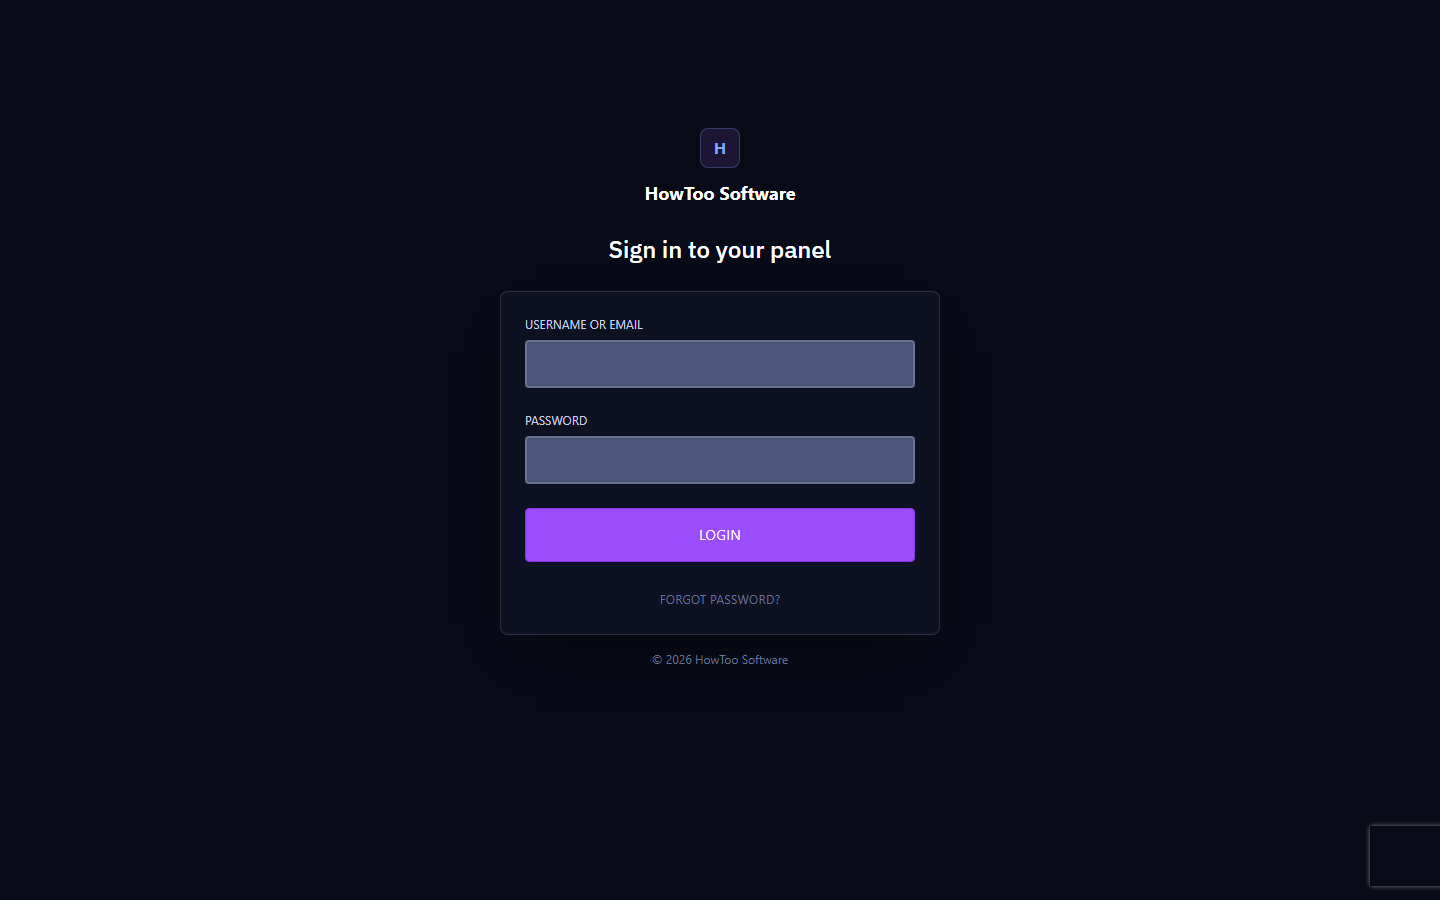
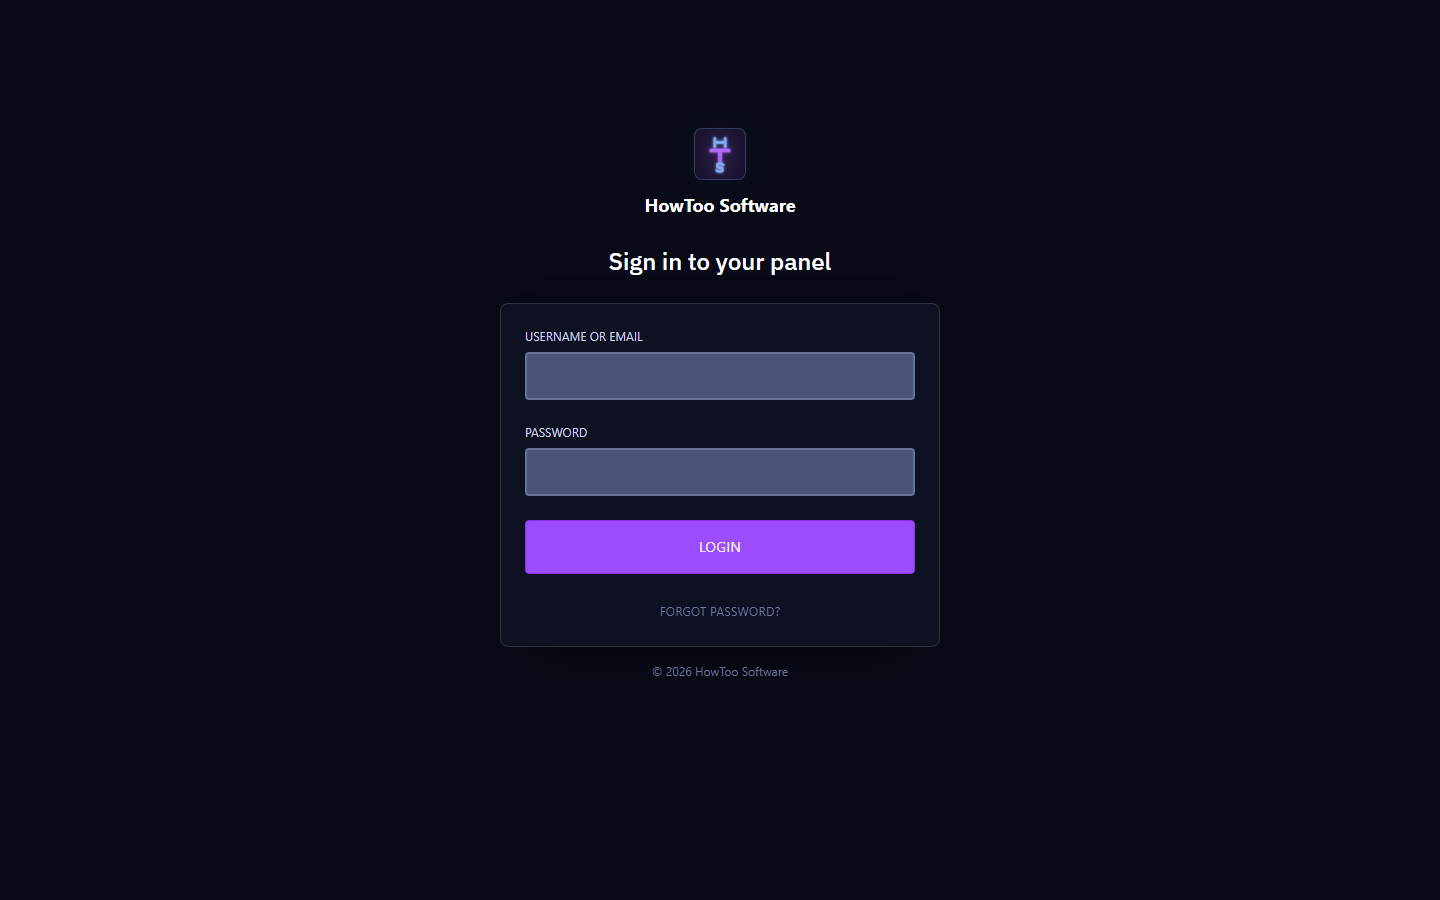
feat: add HTS branding and panel previews

diff --git a/resources/scripts/components/NavigationBar.tsx b/resources/scripts/components/NavigationBar.tsx
@@ -27,18 +27,15 @@ const Brand = styled.span`
     align-items: center;
     gap: 0.625rem;
 
-    &::before {
-        display: grid;
-        width: 1.75rem;
-        height: 1.75rem;
-        place-items: center;
+    img {
+        width: 2rem;
+        height: 2rem;
+        flex: none;
+        padding: 0.125rem;
         border: 1px solid var(--hts-border-blue);
         border-radius: 0.375rem;
-        background: rgba(176, 105, 255, 0.12);
-        color: var(--hts-secondary);
-        content: 'H';
-        font-size: 0.75rem;
-        font-weight: 700;
+        background: rgba(176, 105, 255, 0.08);
+        filter: drop-shadow(0 0 6px rgba(176, 105, 255, 0.32));
     }
 `;
 
@@ -86,7 +83,10 @@ export default () => {
                             'text-2xl font-header font-medium px-4 no-underline text-neutral-200 hover:text-neutral-100 transition-colors duration-150'
                         }
                     >
-                        <Brand>{name}</Brand>
+                        <Brand>
+                            <img src={'/themes/howtoo/images/hts-logo.svg'} alt={''} aria-hidden={'true'} />
+                            <span>{name}</span>
+                        </Brand>
                     </Link>
                 </div>
                 <RightNavigation className={'flex h-full items-center justify-center'}>

diff --git a/resources/scripts/components/auth/LoginFormContainer.tsx b/resources/scripts/components/auth/LoginFormContainer.tsx
@@ -24,16 +24,16 @@ const Brand = styled.div`
     margin-bottom: 1.5rem;
     text-align: center;
 
-    span {
-        display: inline-grid;
-        width: 2.5rem;
-        height: 2.5rem;
-        place-items: center;
+    img {
+        display: block;
+        width: 3.25rem;
+        height: 3.25rem;
+        margin: 0 auto;
+        padding: 0.25rem;
         border: 1px solid var(--hts-border-blue);
         border-radius: 0.5rem;
-        background: rgba(176, 105, 255, 0.12);
-        color: var(--hts-secondary);
-        font-weight: 700;
+        background: rgba(176, 105, 255, 0.08);
+        filter: drop-shadow(0 0 10px rgba(176, 105, 255, 0.4));
     }
 
     strong {
@@ -66,7 +66,7 @@ export default forwardRef<HTMLFormElement, Props>(({ title, ...props }, ref) => 
     return (
         <Container>
             <Brand>
-                <span aria-hidden={'true'}>H</span>
+                <img src={'/themes/howtoo/images/hts-logo.svg'} alt={''} aria-hidden={'true'} />
                 <strong>{name}</strong>
                 {title && <h2>{title}</h2>}
             </Brand>

diff --git a/public/themes/howtoo/css/admin.css b/public/themes/howtoo/css/admin.css
@@ -36,21 +36,30 @@ body.skin-blue {
 }
 
 .main-header .logo {
+    display: flex;
+    align-items: center;
+    justify-content: center;
+    gap: 8px;
+    white-space: nowrap;
+    font-size: 16px;
     font-weight: 700;
 }
 
-.main-header .logo::before {
-    display: inline-grid;
-    width: 24px;
-    height: 24px;
-    margin-right: 8px;
-    place-items: center;
+.main-header .logo span {
+    min-width: 0;
+    overflow: hidden;
+    text-overflow: ellipsis;
+}
+
+.main-header .logo img {
+    width: 28px;
+    height: 28px;
+    flex: none;
+    padding: 2px;
     border: 1px solid rgba(131, 168, 243, 0.32);
     border-radius: 5px;
-    background: rgba(176, 105, 255, 0.12);
-    color: var(--hts-blue);
-    content: 'H';
-    font-size: 11px;
+    background: rgba(176, 105, 255, 0.08);
+    filter: drop-shadow(0 0 6px rgba(176, 105, 255, 0.36));
 }
 
 .main-header .navbar .nav > li > a,

diff --git a/resources/views/admin/index.blade.php b/resources/views/admin/index.blade.php
@@ -1,14 +1,14 @@
 @extends('layouts.admin')
 
 @section('title')
-    Administration
+    {{ __('Administration') }}
 @endsection
 
 @section('content-header')
-    <h1>Administrative Overview<small>A quick glance at your system.</small></h1>
+    <h1>{{ __('Administrative Overview') }}<small>{{ __('A quick glance at your system.') }}</small></h1>
     <ol class="breadcrumb">
-        <li><a href="{{ route('admin.index') }}">Admin</a></li>
-        <li class="active">Index</li>
+        <li><a href="{{ route('admin.index') }}">{{ __('Admin') }}</a></li>
+        <li class="active">{{ __('Overview') }}</li>
     </ol>
 @endsection
 
@@ -23,11 +23,11 @@
             @endif
         ">
             <div class="box-header with-border">
-                <h3 class="box-title">System Information</h3>
+                <h3 class="box-title">{{ __('System Information') }}</h3>
             </div>
             <div class="box-body">
                 @if ($version->isLatestPanel())
-                    You are running Pterodactyl Panel version <code>{{ config('app.version') }}</code>. Your panel is up-to-date!
+                    {!! __('You are running Pterodactyl Panel version :version. Your panel is up-to-date!', ['version' => '<code>' . e(config('app.version')) . '</code>']) !!}
                 @else
                     Your panel is <strong>not up-to-date!</strong> The latest version is <a href="https://github.com/Pterodactyl/Panel/releases/v{{ $version->getPanel() }}" target="_blank"><code>{{ $version->getPanel() }}</code></a> and you are currently running version <code>{{ config('app.version') }}</code>. You can find instructions on how to update your panel <a href="https://pterodactyl.io/panel/1.0/updating.html">here</a>.
                 @endif
@@ -37,17 +37,17 @@
 </div>
 <div class="row">
     <div class="col-xs-6 col-sm-3 text-center">
-        <a href="{{ $version->getDiscord() }}"><button class="btn btn-warning" style="width:100%;"><i class="fa fa-fw fa-support"></i> Get Help <small>(via Discord)</small></button></a>
+        <a href="{{ $version->getDiscord() }}"><button class="btn btn-warning" style="width:100%;"><i class="fa fa-fw fa-support"></i> {{ __('Get Help') }} <small>{{ __('(via Discord)') }}</small></button></a>
     </div>
     <div class="col-xs-6 col-sm-3 text-center">
-        <a href="https://pterodactyl.io"><button class="btn btn-primary" style="width:100%;"><i class="fa fa-fw fa-link"></i> Documentation</button></a>
+        <a href="https://pterodactyl.io"><button class="btn btn-primary" style="width:100%;"><i class="fa fa-fw fa-link"></i> {{ __('Documentation') }}</button></a>
     </div>
     <div class="clearfix visible-xs-block">&nbsp;</div>
     <div class="col-xs-6 col-sm-3 text-center">
         <a href="https://github.com/pterodactyl/panel"><button class="btn btn-primary" style="width:100%;"><i class="fa fa-fw fa-support"></i> GitHub</button></a>
     </div>
     <div class="col-xs-6 col-sm-3 text-center">
-        <a href="{{ $version->getDonations() }}"><button class="btn btn-success" style="width:100%;"><i class="fa fa-fw fa-money"></i> Support the Project</button></a>
+        <a href="{{ $version->getDonations() }}"><button class="btn btn-success" style="width:100%;"><i class="fa fa-fw fa-money"></i> {{ __('Support the Project') }}</button></a>
     </div>
 </div>
 @endsection

diff --git a/resources/views/layouts/admin.blade.php b/resources/views/layouts/admin.blade.php
@@ -13,6 +13,7 @@
         <link rel="manifest" href="/favicons/manifest.json">
         <link rel="mask-icon" href="/favicons/safari-pinned-tab.svg" color="#bc6e3c">
         <link rel="shortcut icon" href="/favicons/favicon.ico">
+        <link rel="icon" type="image/svg+xml" href="/themes/howtoo/images/hts-logo.svg">
         <meta name="msapplication-config" content="/favicons/browserconfig.xml">
         <meta name="theme-color" content="#0e4688">
 
@@ -40,6 +41,7 @@
         <div class="wrapper">
             <header class="main-header">
                 <a href="{{ route('index') }}" class="logo">
+                    <img src="/themes/howtoo/images/hts-logo.svg" alt="" aria-hidden="true">
                     <span>{{ config('app.name', 'HowToo Software') }}</span>
                 </a>
                 <nav class="navbar navbar-static-top">

diff --git a/resources/views/templates/wrapper.blade.php b/resources/views/templates/wrapper.blade.php
@@ -2,6 +2,7 @@
 <html>
     <head>
         <title>{{ config('app.name', 'Pterodactyl') }}</title>
+        <link rel="icon" type="image/svg+xml" href="/themes/howtoo/images/hts-logo.svg">
 
         @section('meta')
             <meta charset="utf-8">

diff --git a/README.md b/README.md
@@ -1,3 +1,7 @@
+<p align="center">
+  <img src="public/themes/howtoo/images/hts-logo.svg" width="72" height="72" alt="HowToo Software">
+</p>
+
 # HowToo Software Panel
 
 Customizacao operacional do [Pterodactyl Panel](https://github.com/pterodactyl/panel), baseada na versao `1.15.1`.
@@ -10,6 +14,14 @@ Este repositorio nao e um prototipo HTML e nao cria servidores de demonstracao. 
 | Portugues automatico | English automatic |
 | --- | --- |
 | ![Login em portugues](docs/screenshots/login-pt.png) | ![Login in English](docs/screenshots/login-en.png) |
+
+| Administracao | Integracoes externas |
+| --- | --- |
+| ![Visao geral administrativa](docs/screenshots/admin-overview.png) | ![Configuracao segura de integracoes](docs/screenshots/admin-integrations.png) |
+
+![Dashboard sem servidores simulados](docs/screenshots/dashboard.png)
+
+O dashboard acima usa o estado vazio real do Pterodactyl. Nenhum servidor foi criado apenas para as capturas; cards e dados aparecem somente depois que servidores reais forem associados ao usuario.
 
 O idioma e detectado pelo `Accept-Language` do navegador. Navegadores em portugues usam `pt`; os demais recebem `en`, que tambem e o fallback.
 
